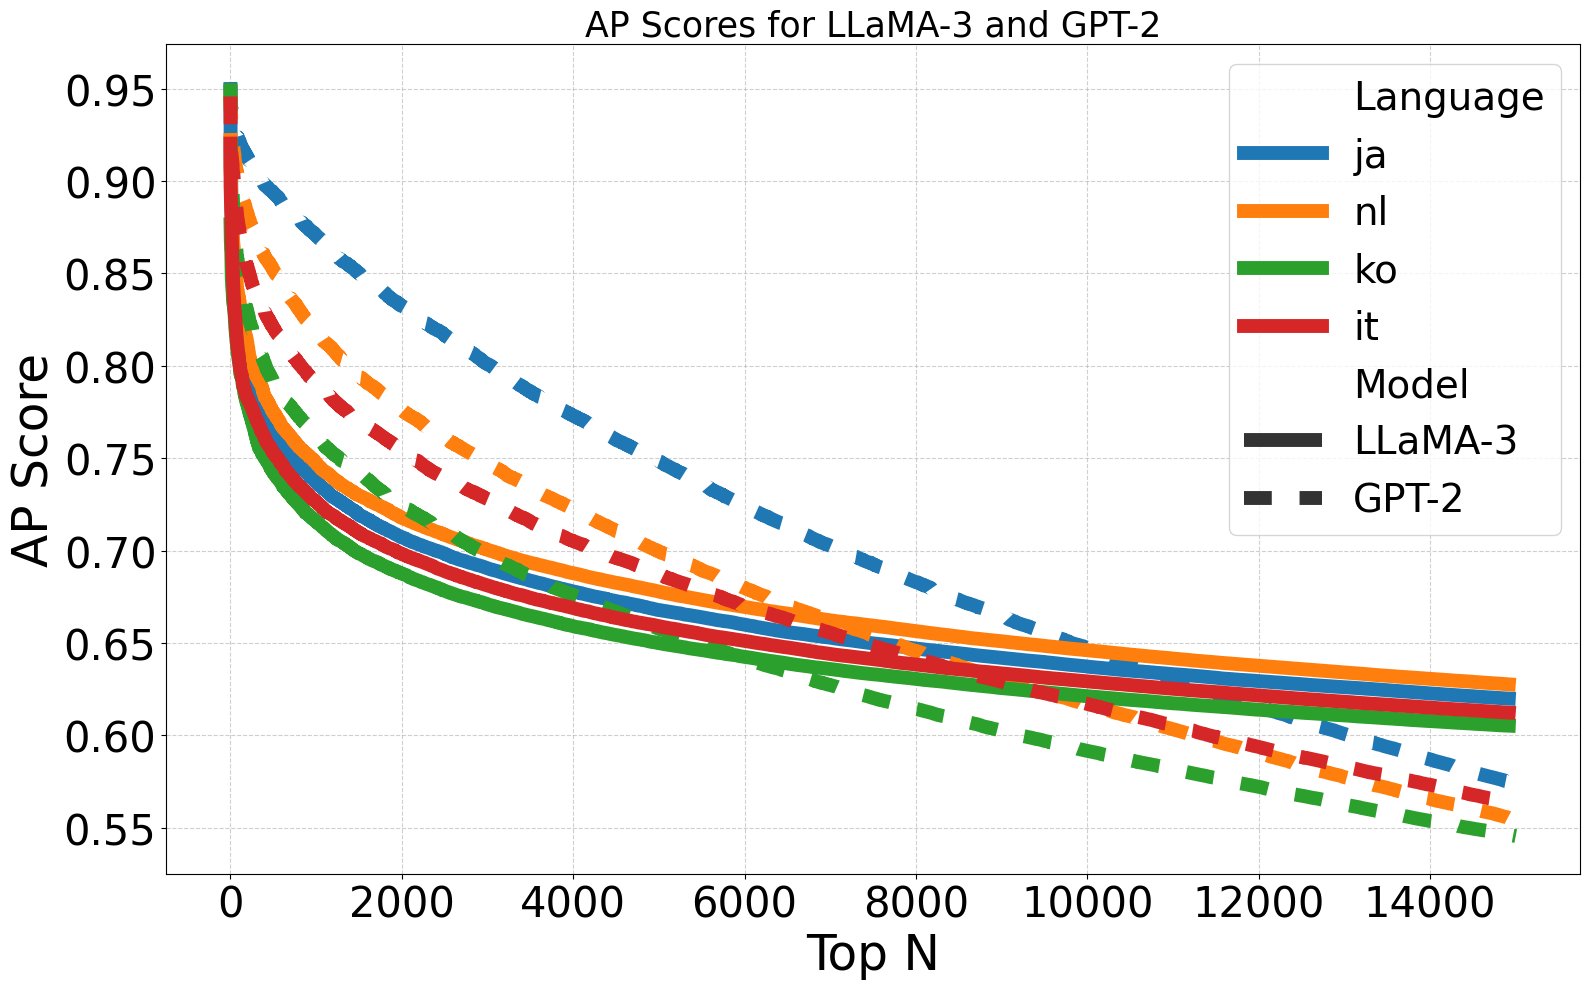
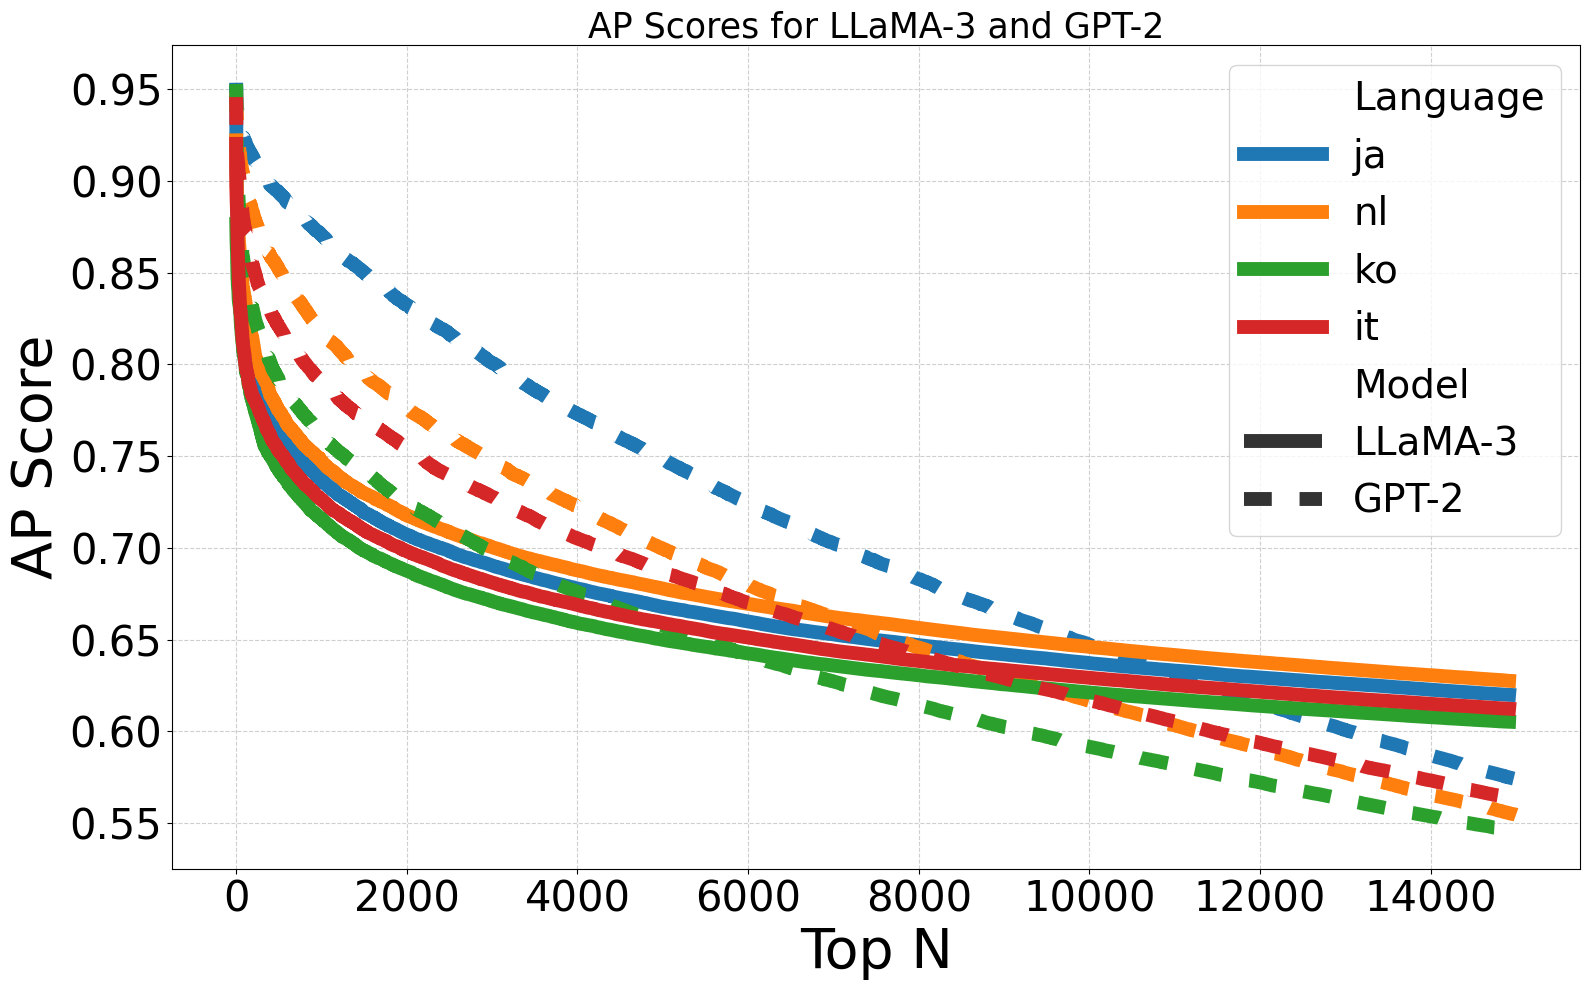
update/image

diff --git a/activated_neuron/new_neurons/intervention/hidden_state_sim/AUC/line_plot_experts.py b/activated_neuron/new_neurons/intervention/hidden_state_sim/AUC/line_plot_experts.py
@@ -81,8 +81,8 @@ sns.lineplot(
 )
 
 # グラフの装飾
-plt.xlabel("Top N", fontsize=35)
-plt.ylabel("AP Score", fontsize=35)
+plt.xlabel("Top N", fontsize=40)
+plt.ylabel("AP Score", fontsize=40)
 plt.title("AP Scores for LLaMA-3 and GPT-2", fontsize=25)
 plt.tick_params(axis='x', labelsize=30)
 plt.tick_params(axis='y', labelsize=30)
